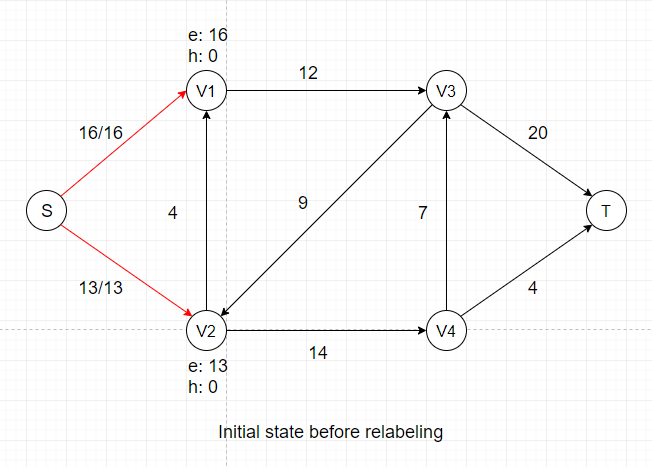
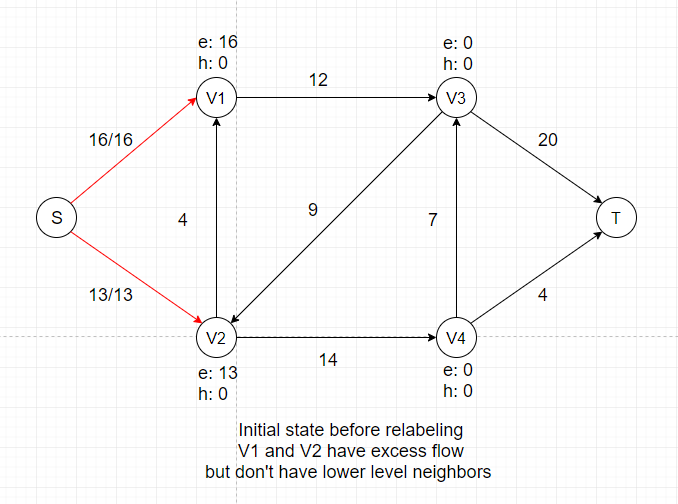
Add files via upload

diff --git a/index.html b/index.html
@@ -91,23 +91,70 @@
       <p>Currently, the most time-efficient algorithms for finding maximum flow are using the push-relabel method rather than the Ford-Fulkerson method. A crucial difference
          between these two approaches is that Ford-Fulkerson method examines the <strong>entire residual graph during each iteration</strong> while push-relabel method only processes
          <strong>one vertex at a time</strong>. An obvious outcome is that push-relabel method costs O(V²E) but Ford-Fulkerson method costs O(VE²).</p>
-      <p>Before going any further, we need to clarify some notations for push-relabel algorithms: v.h represents the height of a vertex, v.e represents the excess flow stored in
-         a vertex. The height of all vertices (except for source and target) are initially 0 and the excess flow of all vertices are initially 0.</p>
+      <p>Before going any further, we need to introduce two core concepts of push-relabel algorithm: <strong>Excess</strong> and <strong>Height</strong>. Imagine every intermediate vertex
+         (all vertices except for Source and Target) as a storage point that can temporarily store certain amount of flow when the algorithm progresses. What we're trying to do is essentially
+         to pure as much flow as we can from upper level (vertices with <strong>larger heights</strong>) to lower level (vertices with <strong>smaller heights</strong>), just like cascades.</p>
+      <p>To clarify some notations for push-relabel algorithms: <strong>v.h</strong> represents the height of a vertex, <strong>v.e</strong> represents the excess flow stored in
+         a vertex. The height of all vertices (except for Source) are initially 0 and the excess flow of all vertices are initially 0. The height of source is equal to the number of vertices |V|.</p>
       <p>As the name implies, push-relabel method consists of two main operations:</p>
       <ul>
         <li><strong>Push Operation</strong></li>
-        <p>This operation only applies to vertex u if u is <strong>overflowing</strong>, meaning that Σ(v, u).f - Σ(u, v).f > 0.<br> By pushing, we send as much flow as we can from
-           u to one of its neighbors v where u.h = v.h + 1 and Δf(u, v) = min(u.e, C'(u, v)). <strong>Note: </strong>C'(u, v) is the residual capacity of edge (u, v).</p>
+        <p>This operation only applies to vertex u if u is <strong>overflowing</strong>, meaning that u.e > 0.<br> By pushing, we send as much flow as we can from
+           u to one of its neighbors v where u.h = v.h + 1 and Δf(u, v) = min(u.e, C'(u, v)).</p>
+        <p><strong>Note: </strong>C'(u, v) is the residual capacity of edge (u, v).</p>
         <img src="Push1.PNG" alt="">
+        <p>In the example above, we are pushing the maximum amount of flow we can (flow value is equal to capacity) to two neighbors of Source. After this push, V1 and V2 each gets certain amount
+           of flow temporarily stored, denoted as <strong>e: 16</strong> and <strong>e: 13</strong>. We can see that all neighbors of V1 and V2 have a height of 0, which is the same as V1 and V2.<br>
+           So we <strong>cannot</strong> push any flow out of V1 and V2 if we don't adjust their heights, which is called the <strong>Relabel Operation</strong>.</p>
         <li><strong>Relabel Operation</strong></li>
         <p>This operation only applies to vertex u if u is <strong>overflowing</strong> and all its neighbors V satifies <strong>u.h ≤ v.h for all v ∈ V</strong>.<br> By relabeling, we increase the
            height of vertex u to <strong>1 + min(v.h for all v ∈ V)</strong>. Since we can only push excess flow from a vertex to its downhill neighbors, adjusting heights of vertices is necessary
            to keep the algorithm progressing.</p>
         <img src="Relabel1.PNG" alt=""><img src="Relabel2.PNG" alt=""><img src="Relabel3.PNG" alt=""><img src="Relabel4.PNG" alt="">
         <img src="Relabel5.PNG" alt=""><img src="Relabel6.PNG" alt=""><img src="Relabel7.PNG" alt=""><img src="Relabel8.PNG" alt="">
+        <img src="Relabel9.PNG" alt="">
       </ul>
-      <p><font size="4" color="red">The generic push-relabel algorithm applies push or relabel operations to every vertex that satifies the condition until no excess flow can be sent from any
-         vertex, which means maximum flow has been reached.</font></p>
+      <p><font size="4" color="red">In the example above, all intermediate vertices have zero excess flow and the push-relabel algorithm terminates.</font></p>
+      <h4>Proof of Correctness</h4>
+      <p>It is really simple to prove that the flow f we obtain from push-relabel method is indeed the maximum flow: we just need to prove there is no path from S to T in the residual network
+         after the algorithm terminates.</p>
+      <p><font size="3" color="red">Let's first suppose that there exists a simple path P from S to T in the residual network for contradiction purposes, where P = (V0, V1, . . . , Vk).</font></p>
+      <p>For i = 0, 1, 2, . . . , k - 1, edge(Vi, Vi+1) ∈ E. By the definition of height function h, h(Vi) ≤ h(Vi+1) + 1. Combining these two inequalities over path P yields h(s) ≤ h(t) + k.
+         Since P is a simple path, k < |V|. So we can get h(s) ≤ 0 + k < |V|, which <strong>contradicts</strong> the requirement that h(s) = |V|.</p>
+      <p><font size="3" color="red">Hence, there is no simple path from Source to Target in the residual graph. By the max-flow min-cut theorem we've shown in Ford-Fulkerson method, the
+         flow we obtain is the maximum flow.</font></p>
+      <h4>Time Complexity Analysis</h4>
+      <p><font size="3" color="red">First, we need to prove that if there is an overflowing vertex x, there must exist a simple path from x to Source in the residual graph.</font></p>
+      <p>For an overflowing vertex x, let U = {v: there exists a simple path from x to v in the residual graph} and suppose S ∉ U. Let T = V - U. Now we sum over all vertices in U to obtain</p>
+      <img src="Proof1.PNG" alt="">
+      <p>We know that the quantity Σe(u) must be positive because e(x) > 0, x ∈ U, all vertices other than S have nonnegative excess and S ∉ U. Thus, we have</p>
+      <img src="Proof2.PNG" alt="">
+      <p>In order for this inequality to hold, we must have <img src="Proof3.PNG" alt="">. So there must exist at least one pair of vertices u' ∈ U and v' ∈ T with f(v', u') > 0. But if
+         f(v', u') > 0, there must be a residual edge (u', v'), which means there exists a simple path from x to v', contradicting the assumption that S ∉ U.</p>
+      <p><font size="3" color="red">Second, we need to prove that the height of all vertices is at most 2|V| - 1.</font></p>
+      <p>The heights of Source and Target never change because they are not overflowing by definition. The height of Source is always |V| and the height of Target is always 0.<br>
+         Now consider any vertex u ∈ V - {S, T}, initially u.h = 0 ≤ 2|V| - 1. When u is relabled, it must be overflowing, meaning that there is a simple path P from u to S in the residual graph.
+         Let P = (V0, V1, . . . , Vk), where V0 = u, Vk = S, and K ≤ |V| - 1. For i = 0, 1, . . . , k - 1, we have (Vi, Vi+1) ∈ E, and therefore, Vi.h ≤ Vi+1.h + 1. Expanding these inequalities
+         over path P yields u.h = V0.h ≤ Vk.h + k ≤ S.h + |V| - 1 = 2|V| - 1.</p>
+      <p><font size="3" color="red">Third, we need to prove that the number of relabel operations during the execution of a push-relabel algorithm is at most (2|V| - 1)(|V| - 2) < 2|V|².</font></p>
+      <p>Only the |V| - 2 vertices in V - {S, T} can be relabeled. Since the height of all vertices is at most 2|V| - 1, each u ∈ V - {S, T} can be relabeled at most 2|V| - 1 times. Thus the
+         total number of relabel operations is at most (2|V| - 1)(|V| - 2).</p>
+      <p><font size="3" color="red">Fourth, we need to prove that the number of saturating pushes during the execution of a push-relabel algorithm is at most 2|V||E|.</font></p>
+      <p>For any pair of vertices (u, v) ∈ V, we will count the saturating pushes from u to v and from v to u together, calling them the saturating pushes between u and v. Suppose a saturating
+         push from u to v has occured, it means u.h = v.h + 1 at that time. In order for another push from v to u occur, v.h must increase by 2 since height never decreases. Recall that the
+         upper bound of height is 2|V| - 1, so the number of times any vertex can have its height increase by 2 is less than |V|. Since both u and v can increase their height to 2|V| - 1, the
+         total number of times their height increases is less than 2|V|. Multiplying by the number edges yields an upper bound of 2|V||E| saturating pushes.</p>
+      <p><font size="3" color="red">Finally, we need to prove that the number of nonsaturating pushes during the executiono of a push-relabel algorithm is less than 4|V|²(|V| + |E|).</font></p>
+      <p>Define a potential function <img src="Proof4.PNG" alt="">. Let's examine the two ways in which Φ may increase. First, relabeling a vertex u increases Φ by less than 2|V| since the
+         relabeling cannot increase u's height by more than its maximum height, which is at most 2|V| - 1. Second, a saturating push from u to v increases Φ by less than 2|V| since u's height
+         doesn't change and v's height cannot excede 2|V| - 1.</p>
+      <p>Now we show that a nonsaturating push from u to v decreases Φ by at least 1. Before the nonsaturating push, u is overflowing and v may or may not be overflowing. u is no longer
+         overflowing after the push. Therefore, the potential function Φ has decreased by exactly u.h and has increased by either 0 or v.h. Since u.h = v.h + 1, the net effect is that Φ has
+         decreased by at least 1.</p>
+      <p>Thus, during the course of the algorithm, the total amount of increase in Φ is due to relabeling and saturating pushes. Previous results constrain the increase to be less than
+         (2|V|)(2|V|²) + (2|V|)(2|V||E|) = 4|V|²(|V| + |E|).</p>
+      <p><strong>In conclusion, the algorithm terminates after <font color="red">O(|V|²|E|)</font> operations. We're not giving specific implementation of push-relabel method here but
+         there is a way to achieve O(|V|) per relabel and O(1) per push, meaning that the total time complexity of the algorithm is <font color="red">O(|V|²|E|)</font>.</strong></p>
     </div>
     <div id="Applications">
       <h2>3. What can we use flow network for?</h2>
